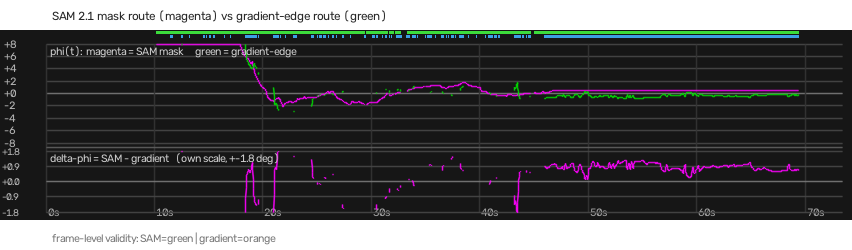
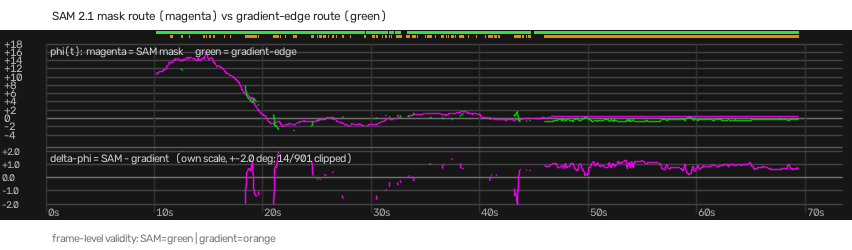
fix(viz): φ 纵轴改为按数据自适应, 修纵轴刻度标签重叠
用户拿量角器在屏幕上量出早期箭体倾斜约 13°, 而曲线图纵轴固定 ±8° 把峰削平了。
实测全片 φ ∈ [-1.97, +15.94](SAM@1024), 固定 ±8° 会截掉 10.93% 的帧。

- --phi-range 默认改为 auto: 取 floor((min-1)/2)*2 .. ceil((max+1)/2)*2,
  本片得 -4..+18。**不强制对称** —— φ 只往正方向跑, 对称轴会白白浪费下半屏。
- 网格步长自适应(1/2/5/10 里能保证标签间距 >=9px 的最小值), 且面板底边留 8px:
  否则最低那条网格线(如 -4)的标签会被面板分隔线和时间轴标签压住
  —— 第一版想把标签上移, 结果正好盖住了 -2, 放大图核对才发现。
- Δφ 轴取稳健分位 p96*1.25 再取整到 0.5 => ±2.0°。Δφ 中位仅 0.8°(落地段 0.89°),
  若按最大值取轴会被个别失稳帧 3~4° 的尖峰绑死, 落地段被压成贴着零线的直线;
  截掉多少帧写进标题(本片 24/1797) 不静默丢失。新增 --dphi-range 可手动指定。
- 零刻度显示 "0" / "0.0", 不再写成 "+0" / "+0.0"。

新增 scripts/_dphi_scale_check.py(列出 Δφ 各分位 vs 各种取轴规则的截顶率);
scripts/_phi_range_check.py 补充落地段绝对 φ 自检:
  SAM@512 +0.43±0.10 / SAM@1024 +0.46±0.06 / 原方案 -0.42±0.22
  => Δφ = +0.85°, 与 SAM2_MASK_ANGLE.md 记录的 +0.8° 口径一致。

产物: runs/seg/compare_timeline_s1024.png, compare_timeline_s512_vs_s1024.png

diff --git a/scripts/compare_video.py b/scripts/compare_video.py
@@ -119,7 +119,8 @@ def fnum(r: dict | None, k: str):
 def build_timeline(n: int, fps: float, W: int, H: int,
                    sam: dict[int, dict], org: dict[int, dict],
                    phi_lo: float, phi_hi: float, dphi_max: float = 0.0,
-                   sam2: dict[int, dict] | None = None) -> np.ndarray:
+                   sam2: dict[int, dict] | None = None,
+                   dphi_clip: int = 0, dphi_n: int = 0) -> np.ndarray:
     """全片曲线带: **上段 φ(t) + 下段 Δφ(t)**, 返回 (H, W, 3) uint8。
 
     为什么必须有 Δφ 那一段: 两条路线的 φ 只差 0.7~0.8°, 画在 ±8° 的同一根轴上
@@ -139,22 +140,35 @@ def build_timeline(n: int, fps: float, W: int, H: int,
     def x_of(f):
         return int(pad_l + w * f / max(n - 1, 1))
 
-    def mk_y(y_top, hh, lo, hi):
+    def mk_y(y_top, y_bot, lo, hi):
         def y_of(p):
             c = min(max(p, lo), hi)
-            return int(y_top + hh * (1.0 - (c - lo) / max(hi - lo, 1e-6)))
+            return int(y_top + (y_bot - y_top) *
+                       (1.0 - (c - lo) / max(hi - lo, 1e-6)))
         return y_of
 
-    y_phi = mk_y(y1_top, h1, phi_lo, phi_hi)
-    y_dphi = mk_y(y2_top, h2, -dphi_max, dphi_max)
+    # 底边留 8px: 纵轴范围恰好落在网格线上(如 -4), 不留边距的话最低那条网格线的
+    # 标签会被面板分隔线/时间轴标签压住 —— 之前想把标签上移, 结果正好盖住 -2。
+    y_phi = mk_y(y1_top, y1_top + h1 - 8, phi_lo, phi_hi)
+    y_dphi = mk_y(y2_top, y2_top + h2 - 8, -dphi_max, dphi_max)
 
     # ---- 上段: φ 网格 + 时间轴 ----
-    for p in np.arange(np.ceil(phi_lo), phi_hi + 1, 2.0):
+    # 网格步长自适应: 原先是写死的 2°, 但纵轴不再固定 ±8 而按数据变化,
+    # 范围一大(如 -4..+18)标签就会挤在一起。取 1/2/5/10 中最小的、
+    # 能保证相邻标签至少隔 9px 的步长。
+    span = max(phi_hi - phi_lo, 1e-6)
+    step = 10.0
+    for cand in (1.0, 2.0, 5.0, 10.0):
+        if h1 * cand / span >= 9.0:
+            step = cand
+            break
+    for p in np.arange(np.ceil(phi_lo / step) * step, phi_hi + 1e-6, step):
         y = y_phi(p)
         col = (70, 70, 70) if abs(p) > 1e-6 else (120, 120, 120)
         cv2.line(strip, (pad_l, y), (W - pad_r, y), col, 1, cv2.LINE_AA)
-        cv2.putText(strip, f"{p:+.0f}", (4, y + 4), cv2.FONT_HERSHEY_SIMPLEX,
-                    0.38, (180, 180, 180), 1, cv2.LINE_AA)
+        cv2.putText(strip, "0" if abs(p) < 1e-6 else f"{p:+.0f}", (4, y + 4),
+                    cv2.FONT_HERSHEY_SIMPLEX, 0.38, (180, 180, 180), 1,
+                    cv2.LINE_AA)
     for t in range(0, int(n / fps) + 1, 10):
         x = x_of(int(t * fps))
         cv2.line(strip, (x, y1_top), (x, y2_top + h2), (52, 52, 52), 1,
@@ -167,9 +181,9 @@ def build_timeline(n: int, fps: float, W: int, H: int,
             y = y_dphi(p)
             col = (120, 120, 120) if abs(p) < 1e-9 else (70, 70, 70)
             cv2.line(strip, (pad_l, y), (W - pad_r, y), col, 1, cv2.LINE_AA)
-            cv2.putText(strip, f"{p:+.1f}", (2, y + 4),
-                        cv2.FONT_HERSHEY_SIMPLEX, 0.34, (180, 180, 180), 1,
-                        cv2.LINE_AA)
+            cv2.putText(strip, "0.0" if abs(p) < 1e-9 else f"{p:+.1f}",
+                        (2, y + 4), cv2.FONT_HERSHEY_SIMPLEX, 0.34,
+                        (180, 180, 180), 1, cv2.LINE_AA)
     cv2.line(strip, (pad_l, y2_top - 4), (W - pad_r, y2_top - 4),
              (95, 95, 95), 1, cv2.LINE_AA)
 
@@ -231,7 +245,10 @@ def build_timeline(n: int, fps: float, W: int, H: int,
     cv2.putText(strip, lab, (pad_l + 4, y1_top + 11),
                 cv2.FONT_HERSHEY_SIMPLEX, 0.38, (205, 205, 205), 1, cv2.LINE_AA)
     if dphi_max > 0:
-        lab2 = "delta-phi = SAM - gradient   (own scale, +-%.1f deg)" % dphi_max
+        # 把截顶帧数写在标题上 —— 轴是按分位定的, 少数尖峰会被切平, 必须让你知道
+        lab2 = ("delta-phi = SAM - gradient   (own scale, +-%.1f deg%s)"
+                % (dphi_max,
+                   "" if not dphi_n else "; %d/%d clipped" % (dphi_clip, dphi_n)))
         cv2.putText(strip, lab2, (pad_l + 4, y2_top + 11),
                     cv2.FONT_HERSHEY_SIMPLEX, 0.36, (205, 205, 205), 1,
                     cv2.LINE_AA)
@@ -347,9 +364,15 @@ def main() -> None:
     ap.add_argument("--end", type=int, default=0)
     ap.add_argument("--out", default="")
     ap.add_argument("--no-video", action="store_true")
-    ap.add_argument("--phi-range", default="-8,8")
+    ap.add_argument("--phi-range", default="auto",
+                    help='"min,max" 纵轴范围; 默认 auto = 按数据自动定, 保证不截顶'
+                         '(实测全片 φ ∈ [-3, +16], 固定 ±8 会截掉约 11%% 的帧)')
     ap.add_argument("--vs2", default="",
                     help="第二套 SAM 配置标签(如 s1024), 同屏对比分辨率")
+    ap.add_argument("--dphi-range", default="auto",
+                    help='"X" 下段 Δφ 轴半宽; 默认 auto = 稳健分位(见下方注释)'
+                         '. Δφ 中位仅 0.8°, 若按最大值取轴会被单个失稳帧的尖峰'
+                         '绑死, 故宁可截掉极少数尖峰也要保住信号分辨率')
     ap.add_argument("--strip-h", type=int, default=190,
                     help="底部曲线带高度(默认 190: 上段 φ, 下段 Δφ)")
     ap.add_argument("--stills", type=int, default=0,
@@ -401,18 +424,56 @@ def main() -> None:
             roi_org[f] = (cr[2][0], cr[2][1])
     cap.release()
 
-    lo, hi = (float(v) for v in a.phi_range.split(","))
-    # Δφ 自己的刻度: 用数据的 96 分位(至少 0.5°) —— 差异只有零点几度, 必须放大才看得见
+    # ---- 纵轴范围: 默认按数据自动定, 保证不截顶 ----
+    # 实测全片 φ ∈ [-3, +16](SAM 在 7-15s 就能到 +14), 早期固定用 ±8 会截掉约 11% 的帧,
+    # 曲线被削平成一条直线 —— 是用户用屏幕量角器量出 13° 才发现的。
+    if a.phi_range.strip().lower() == "auto":
+        allv = []
+        for m in (smap, omap, s2map):
+            if not m:
+                continue
+            for r in m.values():
+                v = fnum(r, "phi_smooth")
+                if v is not None:
+                    allv.append(v)
+        if allv:
+            vmin, vmax = float(np.min(allv)), float(np.max(allv))
+            # 取偶数便于每 2° 一条网格线; **不强制对称** —— φ 只往正方向跑,
+            # 对称轴会白白浪费下半屏, 压缩落地段的细节。
+            lo = float(np.floor((vmin - 1.0) / 2) * 2)
+            hi = float(np.ceil((vmax + 1.0) / 2) * 2)
+        else:
+            lo, hi = -8.0, 8.0
+    else:
+        lo, hi = (float(v) for v in a.phi_range.split(","))
+    # Δφ 自己的刻度: 两条路线只差零点几度, 必须放大才看得见。
+    # ★ 绝不能按 max 定轴: 实测 Δφ 中位 0.8°, 但个别失稳帧会甩出 3~4° 的尖峰,
+    #   让一个坏帧把整根轴拉到 ±4, 落地段那 0.8° 就被压成贴着零线的直线。
+    #   取 p96×1.25 ⇒ 轴半宽 ≈1.9°, 落地段能占满近一半高度, 只截掉 ~1% 的尖峰;
+    #   截掉多少帧会打印出来, 不静默丢失。
     dv = []
-    for f in range(n_all):
-        p = fnum(smap.get(f), "phi_smooth")
-        q = fnum(omap.get(f), "phi_smooth")
-        if p is not None and q is not None:
-            dv.append(abs(p - q))
-    dphi_max = float(np.clip(np.percentile(dv, 96) * 1.25, 0.5, 8.0)) if dv else 0.0
-    print(f"[刻度] Δφ 轴 ±{dphi_max:.2f}°  (样本 {len(dv)} 帧)", flush=True)
+    for m in (smap, s2map):
+        if not m:
+            continue
+        for f in range(n_all):
+            p = fnum(m.get(f), "phi_smooth")
+            q = fnum(omap.get(f), "phi_smooth")
+            if p is not None and q is not None:
+                dv.append(abs(p - q))
+    if a.dphi_range.strip().lower() == "auto":
+        dphi_max = max(0.5, float(np.percentile(dv, 96) * 1.25)) if dv else 0.0
+        rule = "auto p96x1.25"
+    else:
+        dphi_max, rule = float(a.dphi_range), "manual"
+    # 取整到 0.5 的整数倍 ⇒ 网格线落在 ±X, ±X/2, 0, 标签不会出现 "+1.0 / -0.9"
+    dphi_max = max(0.5, float(np.ceil(dphi_max * 2) / 2)) if dphi_max else 0.0
+    clipped = sum(1 for v in dv if v > dphi_max)
+    print(f"[刻度] φ 轴 {lo:+.0f}..{hi:+.0f}°   "
+          f"Δφ 轴 ±{dphi_max:.1f}° [{rule}] "
+          f"(样本 {len(dv)} 帧, 截顶 {clipped} / "
+          f"{100 * clipped / max(len(dv), 1):.1f}%)", flush=True)
     strip = build_timeline(n_all, fps, W, a.strip_h, smap, omap, lo, hi,
-                           dphi_max, s2map)
+                           dphi_max, s2map, clipped, len(dv))
     print(f"[时间线] 底图 {strip.shape} 完成", flush=True)
 
     # ---------------- 静态对照图 ----------------

diff --git a/scripts/_dphi_scale_check.py b/scripts/_dphi_scale_check.py
@@ -1,0 +1,83 @@
+# -*- coding: utf-8 -*-
+"""Δφ 下段该用多大的刻度? —— 定量比较几种取轴规则。
+
+为什么查: Δφ(t) = φ_SAM - φ_原方案, 只有零点几度; 单个失稳帧会甩出一根 ±3° 的
+尖峰。若按"最大值/高分位"取轴, 尖峰一个人就决定了整根轴, 真正关心的落地段差值
+(约 +0.8°) 会被压成一条几乎贴零的线。本脚本列出各分位对应的轴半宽, 便于取舍。
+"""
+
+import csv
+import json
+from pathlib import Path
+
+import numpy as np
+
+ROOT = Path(r"E:\RocketAttitudeEstimation")
+ANG = ROOT / "runs" / "angle"
+ANGM = ROOT / "runs" / "angle_mask"
+FPS = 30.0
+
+
+def csv_map(path):
+    if not path.exists():
+        return {}
+    with Path(path).open(encoding="utf-8") as fh:
+        return {int(r["frame"]): r for r in csv.DictReader(fh)}
+
+
+def fnum(r, k="phi_smooth"):
+    if not r:
+        return None
+    v = r.get(k)
+    if v in (None, "", "None"):
+        return None
+    try:
+        x = float(v)
+    except ValueError:
+        return None
+    return x if np.isfinite(x) else None
+
+
+org = {int(r["frame"]): r
+       for r in json.loads((ANG / "angles.json").read_text(
+           encoding="utf-8"))["frames"]}
+
+
+def ok(m, f):
+    r = m.get(f)
+    return bool(r) and str(r.get("ok", "0")) in ("1", "True")
+
+
+def diffs(tag):
+    m = csv_map(ANGM / f"angles_{tag}.csv")
+    out = []
+    for f, r in sorted(m.items()):
+        a, b = fnum(r), fnum(org.get(f))
+        if a is not None and b is not None and ok(m, f) and ok(org, f):
+            out.append((f, abs(a - b)))
+    return out
+
+
+for tag in ("s512", "s1024"):
+    dv = diffs(tag)
+    if not dv:
+        continue
+    v = np.array([x for _, x in dv])
+    print(f"\n=== {tag} vs 原方案  样本 {len(v)} 帧 ===")
+    print(f"  中位 {np.median(v):.2f}   均值 {v.mean():.2f}   "
+          f"max {v.max():.2f}")
+    print("  分位: " + "  ".join(
+        f"p{q}={np.percentile(v, q):.2f}" for q in (50, 90, 96, 98, 99, 99.5)))
+    # 落地段(46-66s)最关心, 单列
+    land = np.array([x for f, x in dv if 46 * FPS <= f < 66 * FPS])
+    if len(land):
+        print(f"  落地段 46-66s: n={len(land)}  中位 {np.median(land):.2f}  "
+              f"max {land.max():.2f}")
+    print("  各种取轴规则 -> Δφ 轴半宽:")
+    for q in (90, 96, 98, 99, 99.5):
+        raw = np.percentile(v, q) * 1.25
+        print(f"    p{q:<4} 分位 x1.25 = {raw:5.2f}   "
+              f"截顶 {int(np.sum(v > raw)):>3} 帧 "
+              f"({np.sum(v > raw) / len(v) * 100:.1f}%)")
+    print(f"    max x1.0        = {v.max():5.2f}   "
+          "截顶   0 帧 (0.0%)")

diff --git a/scripts/_phi_range_check.py b/scripts/_phi_range_check.py
@@ -1,0 +1,61 @@
+# -*- coding: utf-8 -*-
+"""查 φ 的真实范围: 全片 min/max/分位, 以及前 25s 的典型值。
+
+为什么查: 用户用屏幕量角器量出早期约 13°, 而曲线图纵轴固定 ±8°, 说明早期数据被截顶了。
+"""
+
+import json
+from pathlib import Path
+
+import numpy as np
+
+ROOT = Path(r"E:\RocketAttitudeEstimation")
+ANG = ROOT / "runs" / "angle"
+ANGM = ROOT / "runs" / "angle_mask"
+
+
+def series(path, key="phi_smooth"):
+    d = json.loads(Path(path).read_text(encoding="utf-8"))["frames"]
+    v = np.full(len(d), np.nan)
+    for i, r in enumerate(d):
+        if r.get("ok") and r.get(key) is not None:
+            v[i] = float(r[key])
+    return v, d
+
+
+s512, _ = series(ANGM / "angles_s512.json")
+s1024, _ = series(ANGM / "angles_s1024.json")
+org, _ = series(ANG / "angles.json")
+fps = 30.0
+
+for name, v in (("SAM@512", s512), ("SAM@1024", s1024), ("原方案", org)):
+    f = v[np.isfinite(v)]
+    print(f"\n{name}  有效 {len(f)}")
+    print(f"  min {np.min(f):+.2f}  max {np.max(f):+.2f}  极差 {np.ptp(f):.2f}")
+    for q in (1, 2, 50, 98, 99):
+        print(f"  p{q:<2} {np.percentile(f, q):+.2f}", end="")
+    print()
+    print(f"  |φ| p98 = {np.percentile(np.abs(f), 98):.2f}   "
+          f"|φ| max = {np.max(np.abs(f)):.2f}")
+    # 早期典型值
+    for lo, hi in ((7, 12), (11, 15), (15, 20), (20, 25)):
+        idx = np.arange(int(lo * fps), int(hi * fps))
+        seg = v[idx[np.isfinite(v[idx])]]
+        if len(seg):
+            print(f"  {lo:>2}-{hi:>2}s: n={len(seg):<4} "
+                  f"中位 {np.median(seg):+6.2f}  "
+                  f"范围 [{np.min(seg):+6.2f}, {np.max(seg):+6.2f}]")
+
+print("\n--- 落地段 46-66s 的绝对 φ 中位(与报告里 +0.8° 的口径对齐) ---")
+for name, v in (("SAM@512", s512), ("SAM@1024", s1024), ("原方案", org)):
+    idx = np.arange(int(46 * fps), int(66 * fps))
+    seg = v[idx[np.isfinite(v[idx])]]
+    if len(seg):
+        print(f"  {name:<9} n={len(seg):<4} 中位 {np.median(seg):+6.2f}  "
+              f"σ {np.std(seg):.3f}  范围 [{np.min(seg):+.2f}, {np.max(seg):+.2f}]")
+
+print("\n--- 若纵轴取 ±X°, 各路线被截顶的帧数 ---")
+for X in (8, 10, 12, 15, 18, 20, 24):
+    n = sum(int(np.sum(np.abs(v[np.isfinite(v)]) > X)) for v in (s512, s1024, org))
+    tot = sum(int(np.sum(np.isfinite(v))) for v in (s512, s1024, org))
+    print(f"  ±{X:>2}°  截顶 {n:>5} / {tot}  ({n / tot * 100:.2f}%)")
